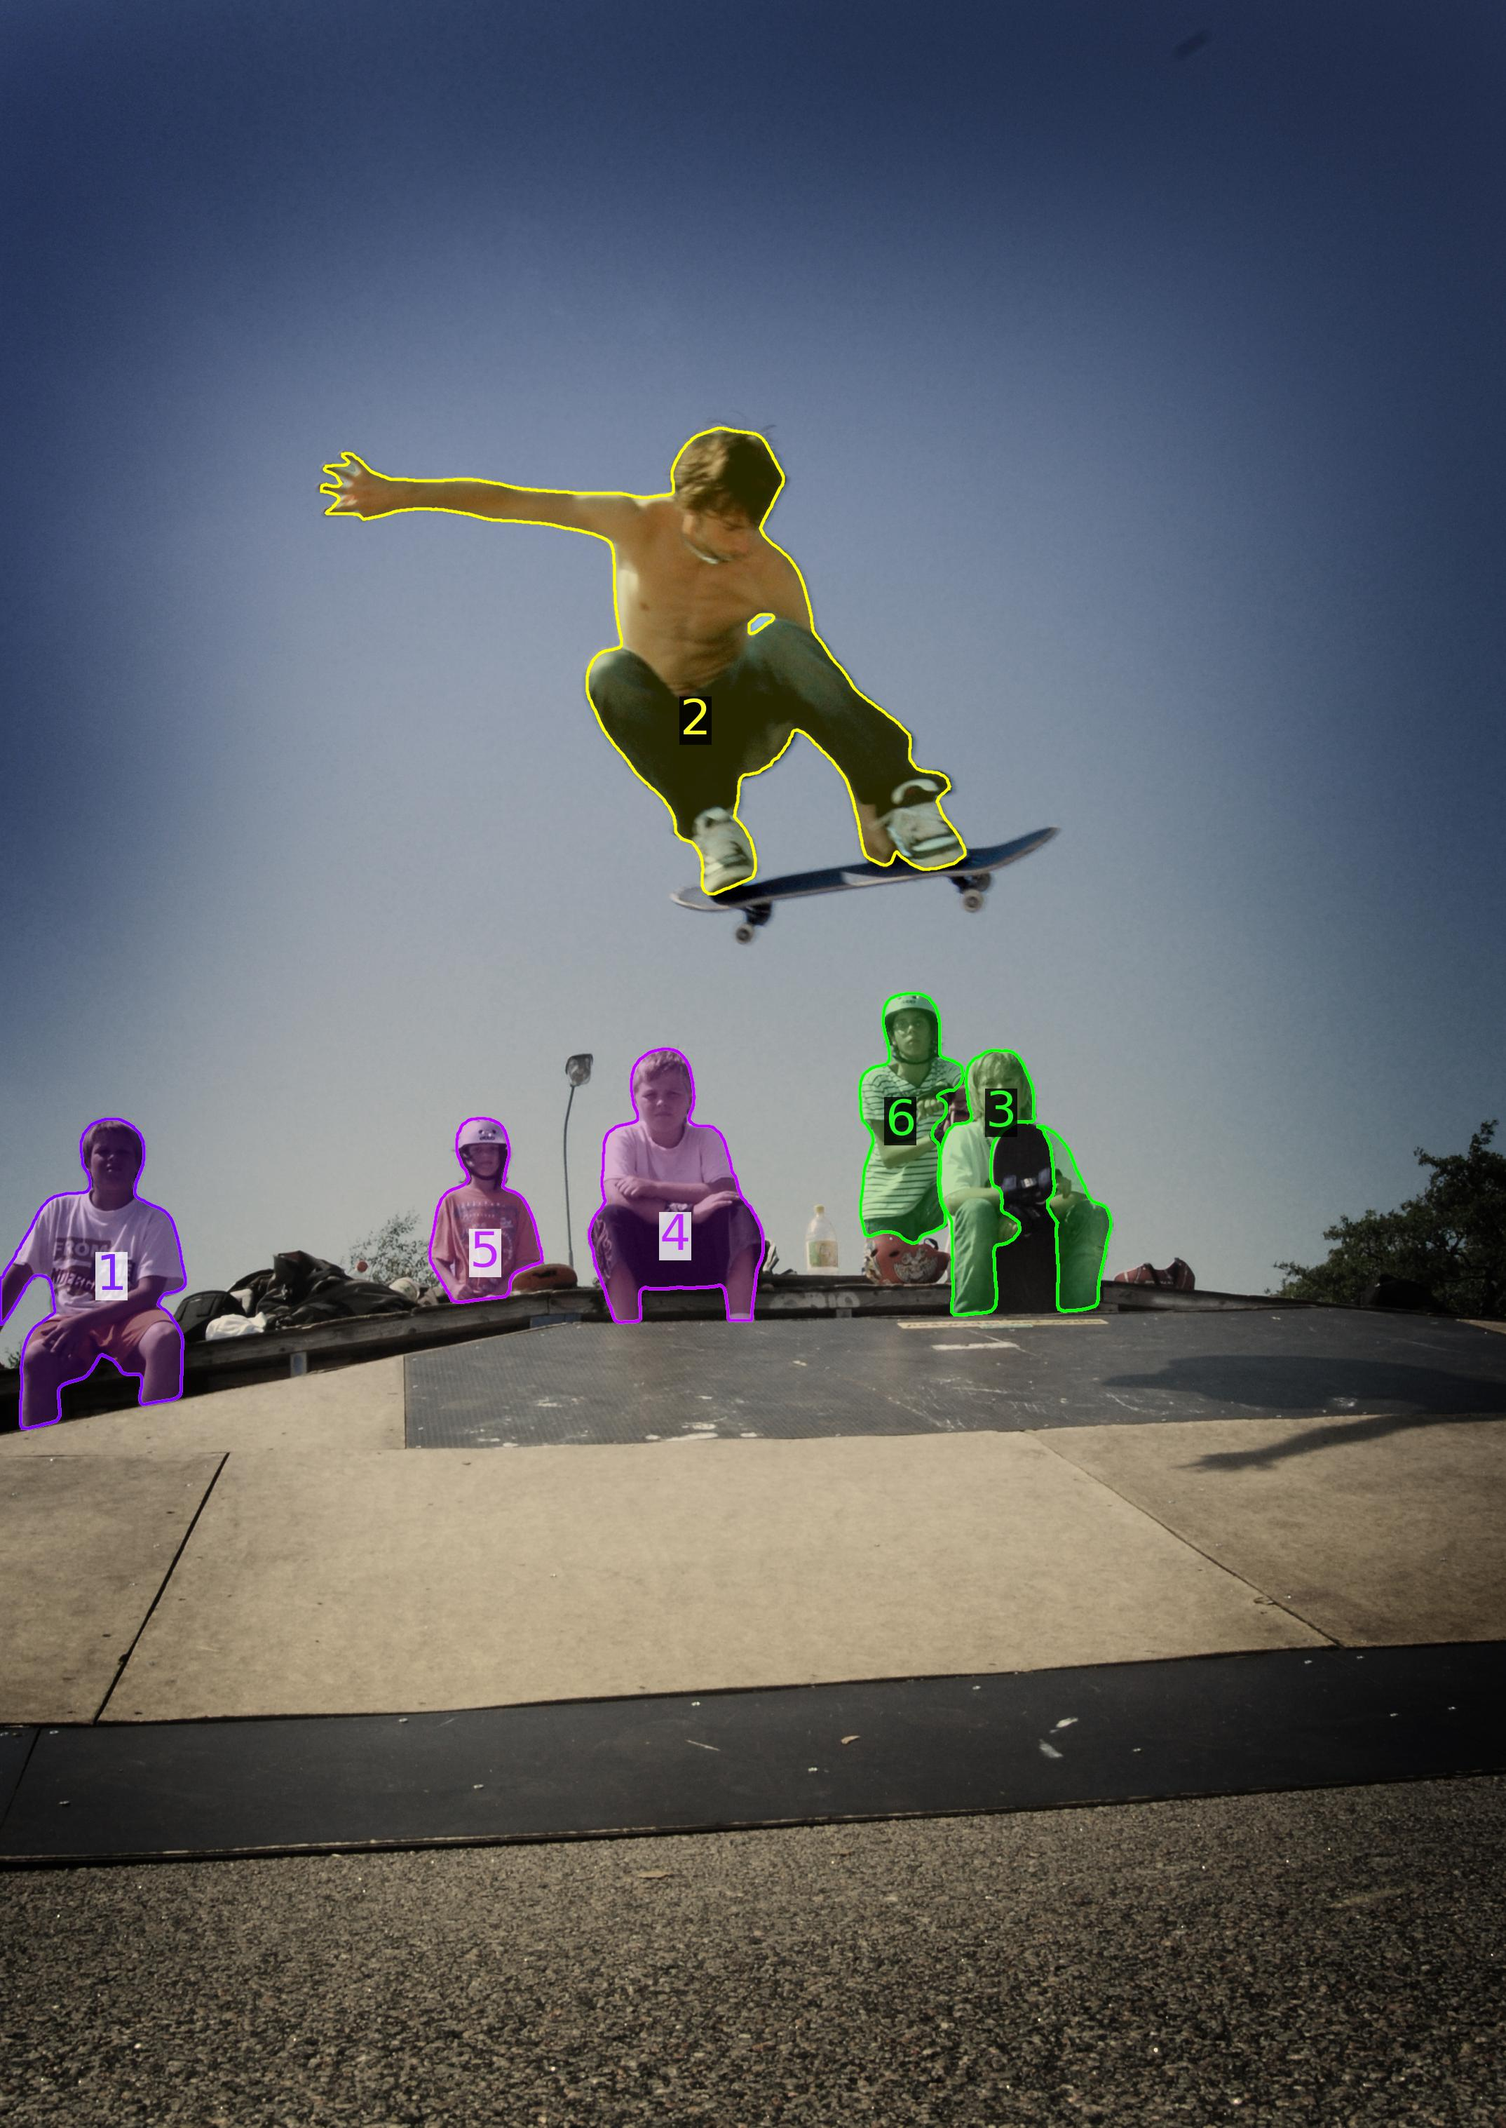
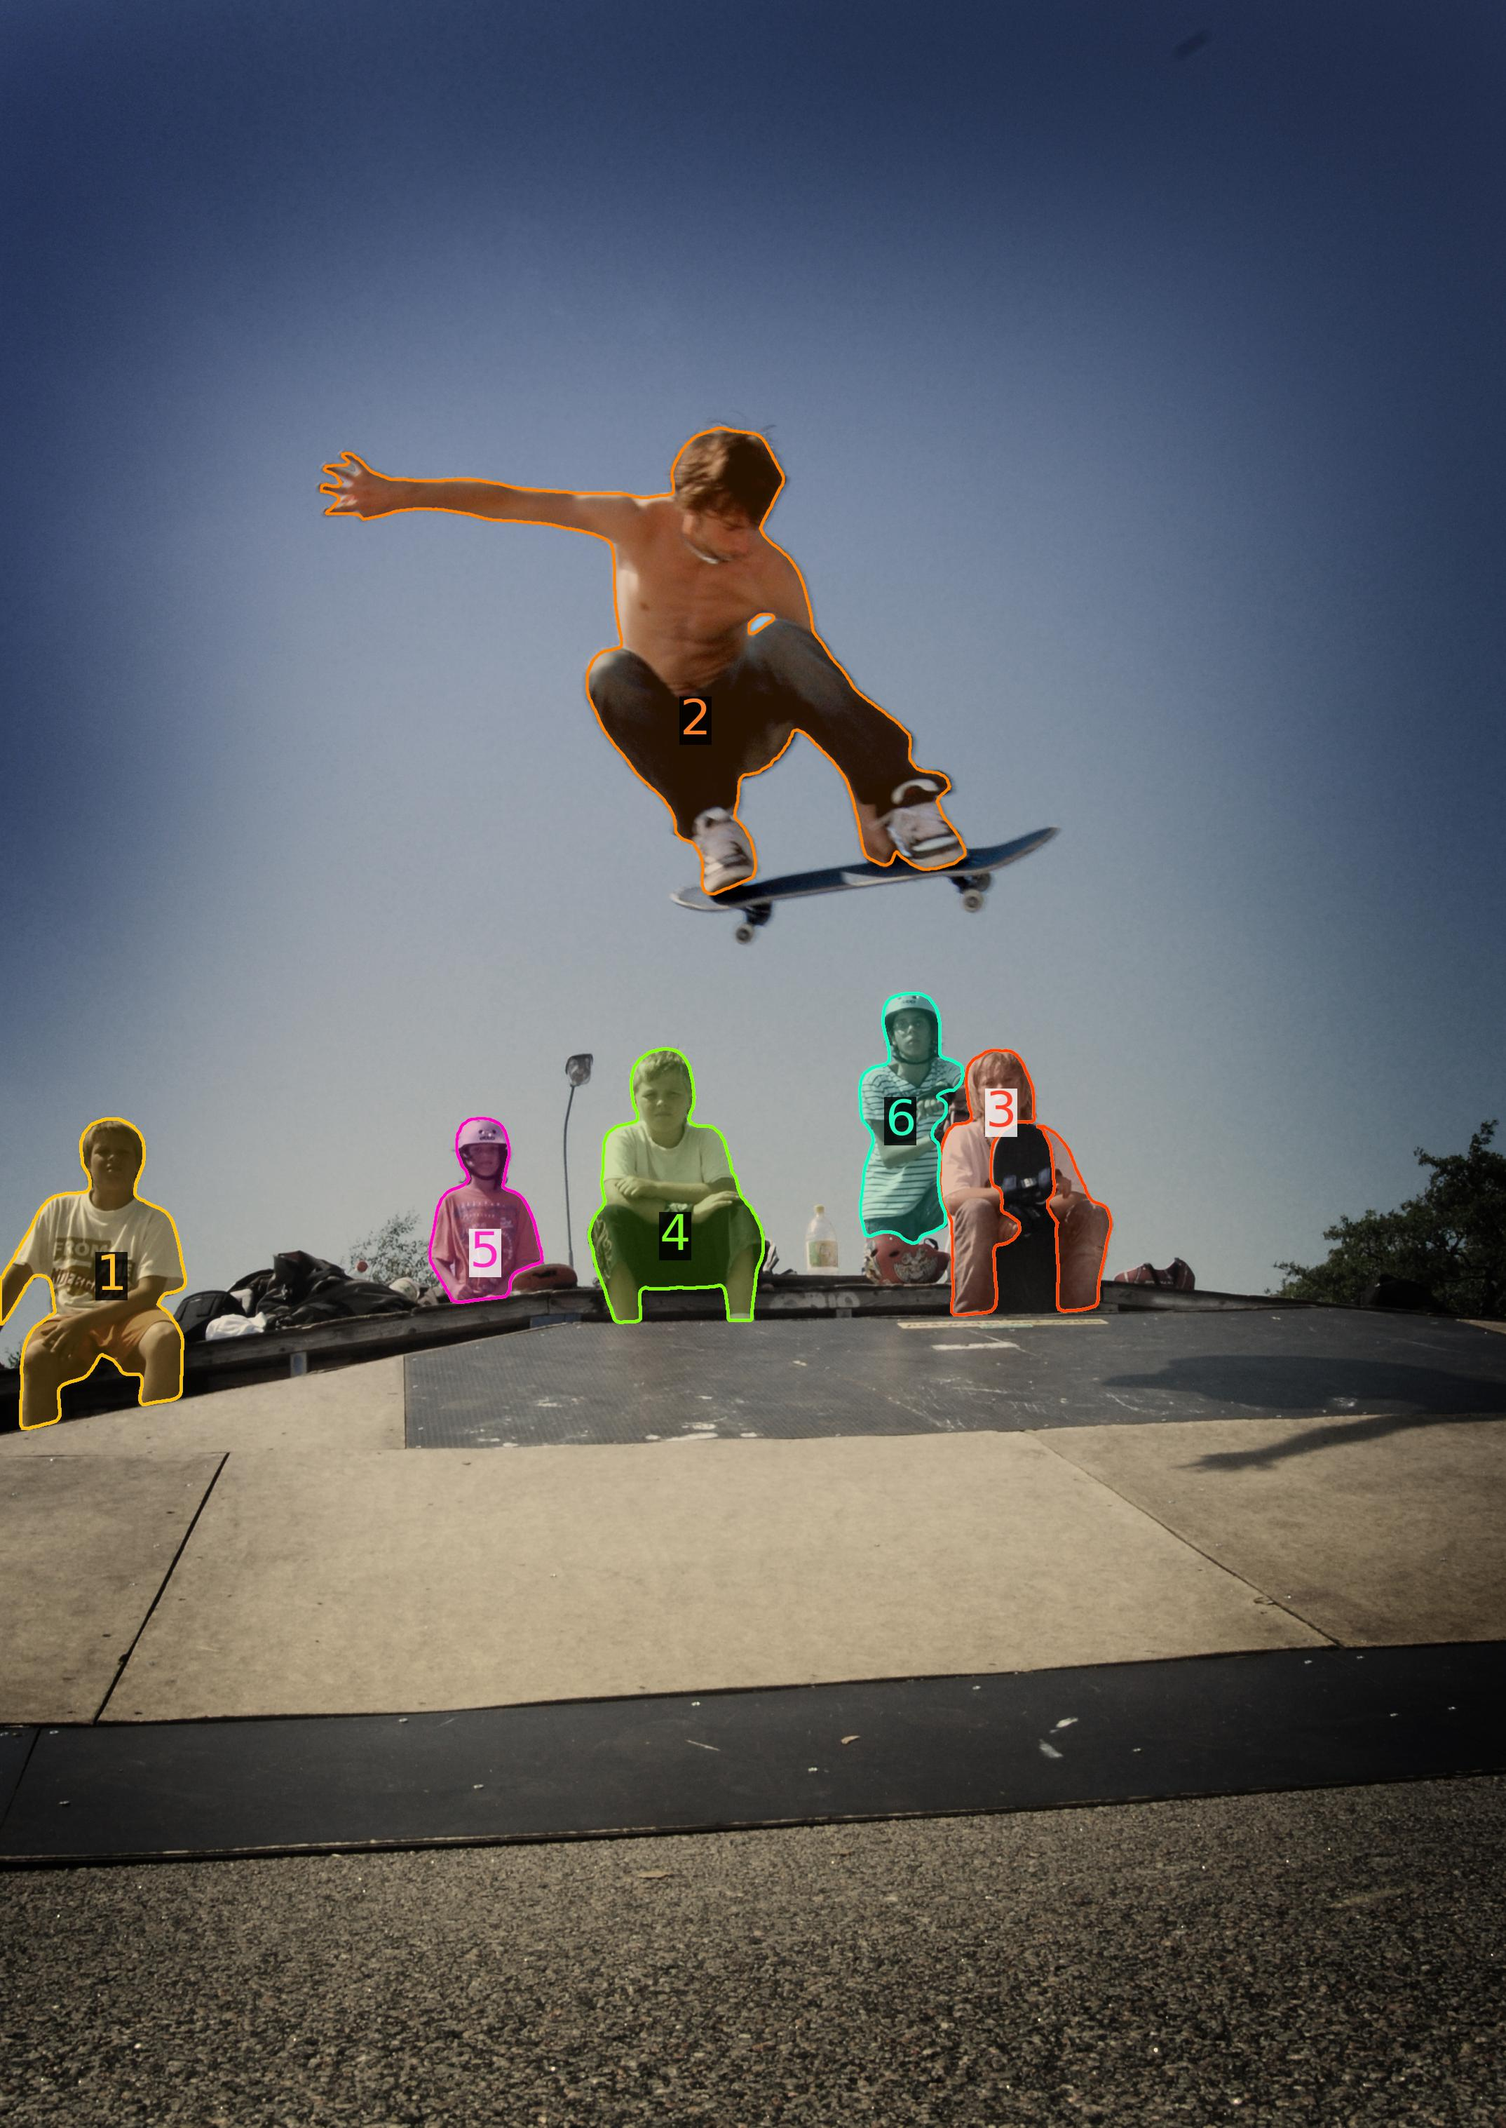
refactored visualization code into one simplified function

diff --git a/sam3/agent/viz.py b/sam3/agent/viz.py
@@ -1,77 +1,110 @@
 import numpy as np
 from PIL import Image
-import json
 import cv2
+import pycocotools.mask as mask_utils
+
 from .helpers.visualizer import Visualizer
-import pycocotools.mask as mask_utils    
 from .helpers.improving_check_each_mask import save_single_mask_para_visualization_zoomin
 
 
-
-# main visualization function
-def visualize(img, boxes, masks, binary_masks, alpha=0.15, label_mode="1", font_size_multiplier=1.2, boarder_width_multiplier=0, color=None):
-
-    # print("len(masks):", len(masks), "len(boxes):", len(boxes), "len(binary_masks):", len(binary_masks))
-    assert (len(masks) == len(boxes))  # masks and bboxes should have the same length
-
-    viz = Visualizer(img, font_size_multiplier=font_size_multiplier, boarder_width_multiplier=boarder_width_multiplier)
-    viz.overlay_instances(
-        boxes=boxes,
-        masks=masks,
-        binary_masks=binary_masks,
-        # assigned_colors = ["#00FF00"]*len(masks),
-        assigned_colors=[color] * len(masks) if color else None,
-        alpha=alpha,
-        label_mode=label_mode,
-    )
-    viz_image = Image.fromarray(viz.output.get_image())
-    
-    return viz_image
-
-
-# function to be called for visualizing check_each_mask
-def zoom_in_and_visualize(input_json, index, mask_alpha=0.15):
+def visualize(
+    input_json: dict,
+    zoom_in_index: int | None = None,
+    mask_alpha: float = 0.15,
+    label_mode: str = "1",
+    font_size_multiplier: float = 1.2,
+    boarder_width_multiplier: float = 0,
+):
     """
+    Unified visualization function.
+
+    If zoom_in_index is None:
+        - Render all masks in input_json (equivalent to visualize_masks_from_result_json).
+        - Returns: PIL.Image
+
+    If zoom_in_index is provided:
+        - Returns two PIL.Images:
+            1) Output identical to zoom_in_and_visualize(input_json, index).
+            2) The same instance rendered via the general overlay using the color
+               returned by (1), equivalent to calling visualize_masks_from_result_json
+               on a single-mask json_i with color=color_hex.
     """
-    object_data = {
-        "labels": [{"noun_phrase": f"mask_{index}"}],
-        "segmentation": {
-            "counts": input_json["pred_masks"][index],
-            "size": [input_json["orig_img_h"], input_json["orig_img_w"]]
+    # Common fields
+    orig_h = int(input_json["orig_img_h"])
+    orig_w = int(input_json["orig_img_w"])
+    img_path = input_json["original_image_path"]
+
+    # ---------- Mode A: Full-scene render ----------
+    if zoom_in_index is None:
+        boxes = np.array(input_json["pred_boxes"])
+        rle_masks = [{"size": (orig_h, orig_w), "counts": rle}
+                     for rle in input_json["pred_masks"]]
+        binary_masks = [mask_utils.decode(rle) for rle in rle_masks]
+
+        img_bgr = cv2.imread(img_path)
+        if img_bgr is None:
+            raise FileNotFoundError(f"Could not read image: {img_path}")
+        img_rgb = cv2.cvtColor(img_bgr, cv2.COLOR_BGR2RGB)
+
+        viz = Visualizer(
+            img_rgb,
+            font_size_multiplier=font_size_multiplier,
+            boarder_width_multiplier=boarder_width_multiplier,
+        )
+        viz.overlay_instances(
+            boxes=boxes,
+            masks=rle_masks,
+            binary_masks=binary_masks,
+            assigned_colors=None,
+            alpha=mask_alpha,
+            label_mode=label_mode,
+        )
+        pil_all_masks = Image.fromarray(viz.output.get_image())
+        return pil_all_masks
+
+    # ---------- Mode B: Zoom-in pair ----------
+    else:
+        idx = int(zoom_in_index)
+        num_masks = len(input_json.get("pred_masks", []))
+        if idx < 0 or idx >= num_masks:
+            raise ValueError(f"zoom_in_index {idx} is out of range (0..{num_masks-1}).")
+
+        # (1) Replicate zoom_in_and_visualize
+        object_data = {
+            "labels": [{"noun_phrase": f"mask_{idx}"}],
+            "segmentation": {
+                "counts": input_json["pred_masks"][idx],
+                "size": [orig_h, orig_w],
+            },
         }
-    }
-    image = Image.open(input_json["original_image_path"])
+        pil_img = Image.open(img_path)
+        pil_mask_i_zoomed, _, _, color_hex = save_single_mask_para_visualization_zoomin(
+            object_data, pil_img, mask_alpha=mask_alpha
+        )
 
-    pil_img, _, _, color_hex = save_single_mask_para_visualization_zoomin(object_data, image, mask_alpha=mask_alpha)
-    return pil_img, color_hex
+        # (2) Single-instance render with the same color
+        boxes_i = np.array([input_json["pred_boxes"][idx]])
+        rle_i = {"size": (orig_h, orig_w), "counts": input_json["pred_masks"][idx]}
+        bin_i = mask_utils.decode(rle_i)
 
-    
+        img_bgr_i = cv2.imread(img_path)
+        if img_bgr_i is None:
+            raise FileNotFoundError(f"Could not read image: {img_path}")
+        img_rgb_i = cv2.cvtColor(img_bgr_i, cv2.COLOR_BGR2RGB)
 
+        viz_i = Visualizer(
+            img_rgb_i,
+            font_size_multiplier=font_size_multiplier,
+            boarder_width_multiplier=boarder_width_multiplier,
+        )
+        viz_i.overlay_instances(
+            boxes=boxes_i,
+            masks=[rle_i],
+            binary_masks=[bin_i],
+            assigned_colors=[color_hex],
+            alpha=mask_alpha,
+            label_mode=label_mode,
+        )
+        pil_mask_i = Image.fromarray(viz_i.output.get_image())
 
-
-def visualize_masks_from_result_json(result_json: dict, color=None):
-    """
-    Given a output json dictionary "result_json" containing the following keys:
-    
-    'original_image_path': str -- the path to the original image,
-    'orig_img_h': int -- the height of the original image,
-    'orig_img_w': int -- the width of the original image,
-    'pred_boxes': list -- the predicted bounding boxes,
-    'pred_scores': list -- the predicted scores,
-    'pred_masks': list -- the predicted masks,
-    
-    this function will load the original image, render the masks on the image, and return the rendered image.
-    
-    """
-    # get the boxes, coco_rle_masks, and binary masks
-    boxes_array = np.array(result_json['pred_boxes'])
-    coco_rle_masks = [{'size': (result_json["orig_img_h"], result_json["orig_img_w"]), 'counts': rle} for rle in result_json['pred_masks']]
-    binary_masks = [mask_utils.decode(i) for i in coco_rle_masks]
-    
-    # load the original image
-    img = cv2.imread(result_json['original_image_path'])
-    img = cv2.cvtColor(img, cv2.COLOR_BGR2RGB)
-    
-    # visualize the masks on the image
-    image_w_rendered_masks = visualize(img, boxes_array, coco_rle_masks, binary_masks, color=color)
-    return image_w_rendered_masks
+        return pil_mask_i, pil_mask_i_zoomed

diff --git a/sam3/agent/agent_core.py b/sam3/agent/agent_core.py
@@ -12,7 +12,7 @@ import random
 #from num2words import num2words
 from .client_llm import send_generate_request
 from .client_sam3 import call_sam_service
-from .viz import visualize_masks_from_result_json, zoom_in_and_visualize
+from .viz import visualize, zoom_in_and_visualize
 import getpass
 USER = getpass.getuser()
 
@@ -276,15 +276,17 @@ def agent_inference(img_path: str, initial_text_prompt: str, debug: bool = False
             for i in range(num_masks):  
                 print(f"🔍 Checking mask {i+1}/{num_masks}...")                
                 
-                mask_i_outputs = {
-                    "original_image_path": current_outputs["original_image_path"],
-                    "orig_img_h": current_outputs["orig_img_h"],
-                    "orig_img_w": current_outputs["orig_img_w"],
-                    "pred_boxes": np.array([current_outputs["pred_boxes"][i]]),
-                    "pred_masks": [current_outputs["pred_masks"][i]],
-                }
-                image_w_zoomed_in_mask_i, color_hex = zoom_in_and_visualize(current_outputs, i)
-                image_w_mask_i = visualize_masks_from_result_json(mask_i_outputs, color=color_hex)
+                # mask_i_outputs = {
+                #     "original_image_path": current_outputs["original_image_path"],
+                #     "orig_img_h": current_outputs["orig_img_h"],
+                #     "orig_img_w": current_outputs["orig_img_w"],
+                #     "pred_boxes": np.array([current_outputs["pred_boxes"][i]]),
+                #     "pred_masks": [current_outputs["pred_masks"][i]],
+                # }
+                # image_w_zoomed_in_mask_i, color_hex = zoom_in_and_visualize(current_outputs, i)
+                # image_w_mask_i = visualize(mask_i_outputs, color=color_hex)
+                
+                image_w_mask_i, image_w_zoomed_in_mask_i = visualize(current_outputs, i)
                 
                 image_w_zoomed_in_mask_i_path = os.path.join(sam_output_dir, rf"{LATEST_SAM3_TEXT_PROMPT}.png".replace("/", "_")).replace(".png", f"_zoom_in_mask_{i + 1}.png")
                 image_w_mask_i_path = os.path.join(sam_output_dir, rf"{LATEST_SAM3_TEXT_PROMPT}.png".replace("/", "_")).replace(".png", f"_selected_mask_{i + 1}.png")
@@ -330,7 +332,7 @@ def agent_inference(img_path: str, initial_text_prompt: str, debug: bool = False
                 "pred_masks": [current_outputs["pred_masks"][i] for i in masks_to_keep],
             }
             
-            image_w_check_masks = visualize_masks_from_result_json(updated_outputs)
+            image_w_check_masks = visualize(updated_outputs)
             image_w_check_masks_path = os.path.join(sam_output_dir, rf"{LATEST_SAM3_TEXT_PROMPT}.png").replace(".png", f"_selected_masks_{'-'.join(map(str, [i+1 for i in masks_to_keep]))}.png".replace("/", "_"))
             image_w_check_masks.save(image_w_check_masks_path)
             # save the updated json outputs and append to message history
@@ -377,7 +379,7 @@ def agent_inference(img_path: str, initial_text_prompt: str, debug: bool = False
                 "pred_masks": [current_outputs["pred_masks"][i-1] for i in masks_to_keep],
             }
             
-            rendered_final_output = visualize_masks_from_result_json(final_outputs)
+            rendered_final_output = visualize(final_outputs)
             messages.append({"role": "assistant", "content": [{"type": "text", "text": generated_text}]})
             
             # Clean up debug files before successful return

diff --git a/sam3/agent/viz_bak.py b/sam3/agent/viz_bak.py
@@ -1,0 +1,77 @@
+import numpy as np
+from PIL import Image
+import json
+import cv2
+from .helpers.visualizer import Visualizer
+import pycocotools.mask as mask_utils    
+from .helpers.improving_check_each_mask import save_single_mask_para_visualization_zoomin
+
+
+
+# main visualization function
+def visualize(img, boxes, masks, binary_masks, alpha=0.15, label_mode="1", font_size_multiplier=1.2, boarder_width_multiplier=0, color=None):
+
+    # print("len(masks):", len(masks), "len(boxes):", len(boxes), "len(binary_masks):", len(binary_masks))
+    assert (len(masks) == len(boxes))  # masks and bboxes should have the same length
+
+    viz = Visualizer(img, font_size_multiplier=font_size_multiplier, boarder_width_multiplier=boarder_width_multiplier)
+    viz.overlay_instances(
+        boxes=boxes,
+        masks=masks,
+        binary_masks=binary_masks,
+        # assigned_colors = ["#00FF00"]*len(masks),
+        assigned_colors=[color] * len(masks) if color else None,
+        alpha=alpha,
+        label_mode=label_mode,
+    )
+    viz_image = Image.fromarray(viz.output.get_image())
+    
+    return viz_image
+
+
+# function to be called for visualizing check_each_mask
+def zoom_in_and_visualize(input_json, index, mask_alpha=0.15):
+    """
+    """
+    object_data = {
+        "labels": [{"noun_phrase": f"mask_{index}"}],
+        "segmentation": {
+            "counts": input_json["pred_masks"][index],
+            "size": [input_json["orig_img_h"], input_json["orig_img_w"]]
+        }
+    }
+    image = Image.open(input_json["original_image_path"])
+
+    pil_img, _, _, color_hex = save_single_mask_para_visualization_zoomin(object_data, image, mask_alpha=mask_alpha)
+    return pil_img, color_hex
+
+    
+
+
+
+def visualize_masks_from_result_json(result_json: dict, color=None):
+    """
+    Given a output json dictionary "result_json" containing the following keys:
+    
+    'original_image_path': str -- the path to the original image,
+    'orig_img_h': int -- the height of the original image,
+    'orig_img_w': int -- the width of the original image,
+    'pred_boxes': list -- the predicted bounding boxes,
+    'pred_scores': list -- the predicted scores,
+    'pred_masks': list -- the predicted masks,
+    
+    this function will load the original image, render the masks on the image, and return the rendered image.
+    
+    """
+    # get the boxes, coco_rle_masks, and binary masks
+    boxes_array = np.array(result_json['pred_boxes'])
+    coco_rle_masks = [{'size': (result_json["orig_img_h"], result_json["orig_img_w"]), 'counts': rle} for rle in result_json['pred_masks']]
+    binary_masks = [mask_utils.decode(i) for i in coco_rle_masks]
+    
+    # load the original image
+    img = cv2.imread(result_json['original_image_path'])
+    img = cv2.cvtColor(img, cv2.COLOR_BGR2RGB)
+    
+    # visualize the masks on the image
+    image_w_rendered_masks = visualize(img, boxes_array, coco_rle_masks, binary_masks, color=color)
+    return image_w_rendered_masks

diff --git a/sam3/agent/test_viz_zoom.py b/sam3/agent/test_viz_zoom.py
@@ -4,7 +4,7 @@ import numpy as np
 import json
 import os
 from PIL import Image
-from .viz import zoom_in_and_visualize, visualize_masks_from_result_json
+from .viz import visualize
 
 
 if __name__ == "__main__":
@@ -24,16 +24,8 @@ if __name__ == "__main__":
     # 3. Call the visualize function and save the output image
     for i in range (len(data['pred_boxes'])):
         
-        data_i = {
-            "original_image_path": data["original_image_path"],
-            "orig_img_h": data["orig_img_h"],
-            "orig_img_w": data["orig_img_w"],
-            "pred_boxes": np.array([data["pred_boxes"][i]]),
-            "pred_masks": [data["pred_masks"][i]],
-        }
-
-        image_w_zoomed_in_mask_i, color_hex = zoom_in_and_visualize(data, i)
-        image_w_mask_i = visualize_masks_from_result_json(data_i, color=color_hex)
+        
+        image_w_mask_i, image_w_zoomed_in_mask_i = visualize(data, zoom_in_index=i)
 
         zoomed_in_mask_i_output_path = f'/fsx-onevision/yuzhou1/code/sam3/sam3/agent/viz_out/person_{i}_zoomed_in.png'
         mask_i_output_path = f'/fsx-onevision/yuzhou1/code/sam3/sam3/agent/viz_out/person_{i}.png'

diff --git a/sam3/agent/test_viz_json.py b/sam3/agent/test_viz_json.py
@@ -4,7 +4,7 @@ import numpy as np
 import json
 import os
 from PIL import Image
-from .viz import visualize_masks_from_result_json
+from .viz import visualize
 
 
 if __name__ == "__main__":
@@ -23,6 +23,6 @@ if __name__ == "__main__":
 
 
     # 3. Call the visualize function and save the output image
-    viz_image = visualize_masks_from_result_json(data)
+    viz_image = visualize(data)
     viz_image.save(image_output_path)
     print("saved image to ", image_output_path)
